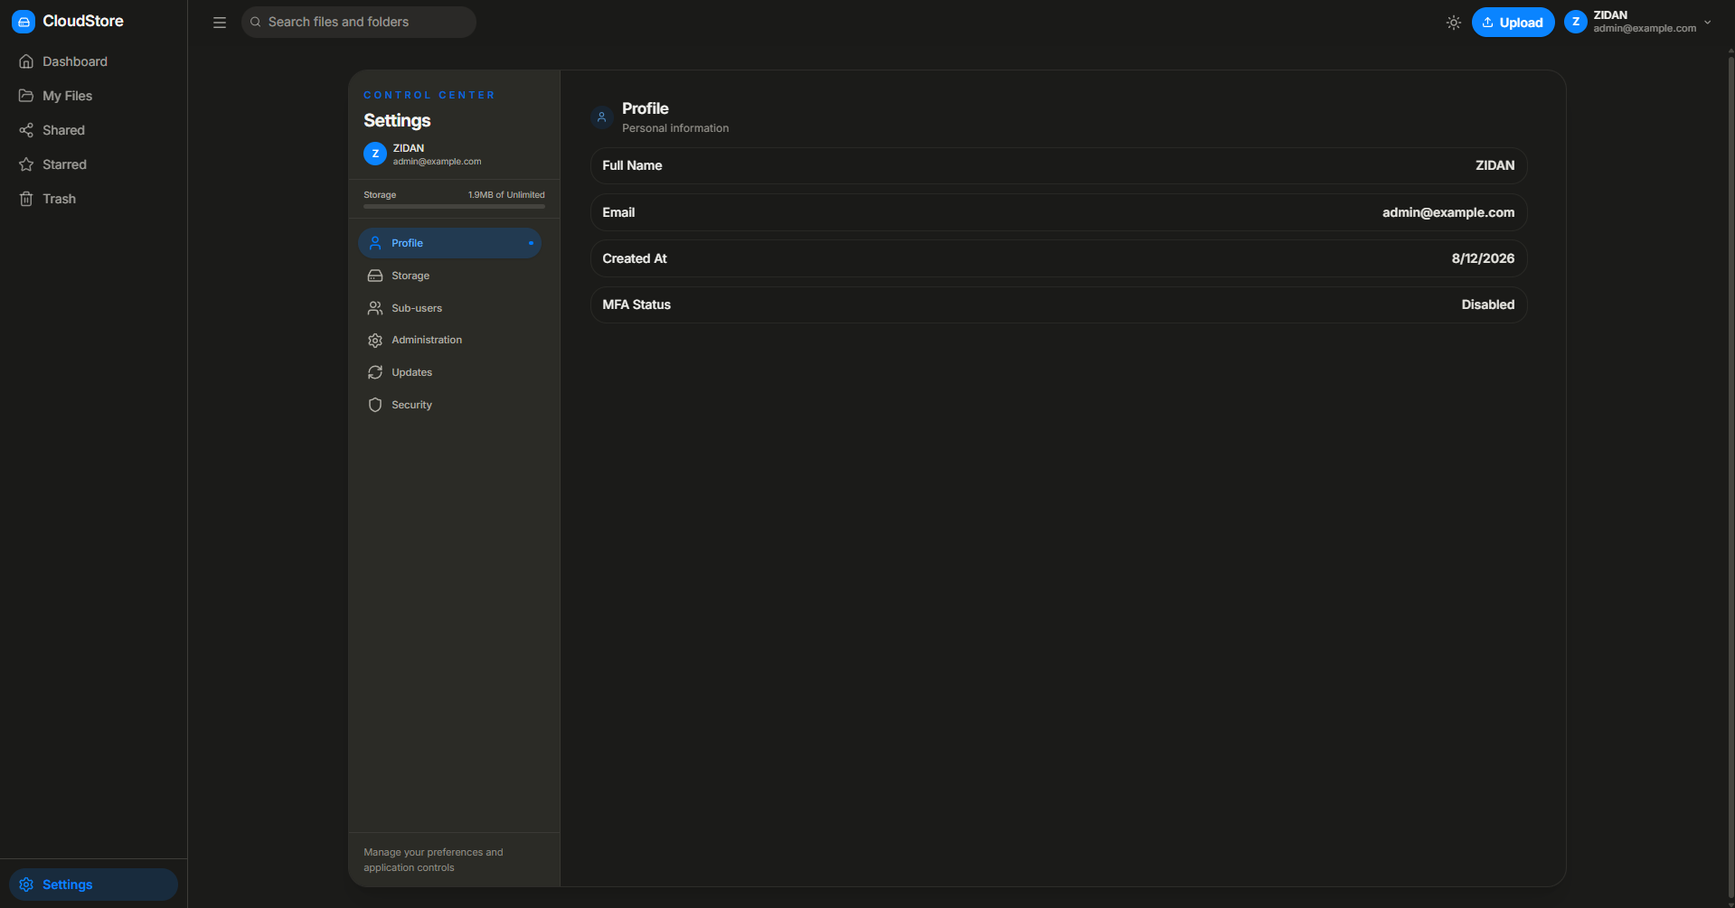
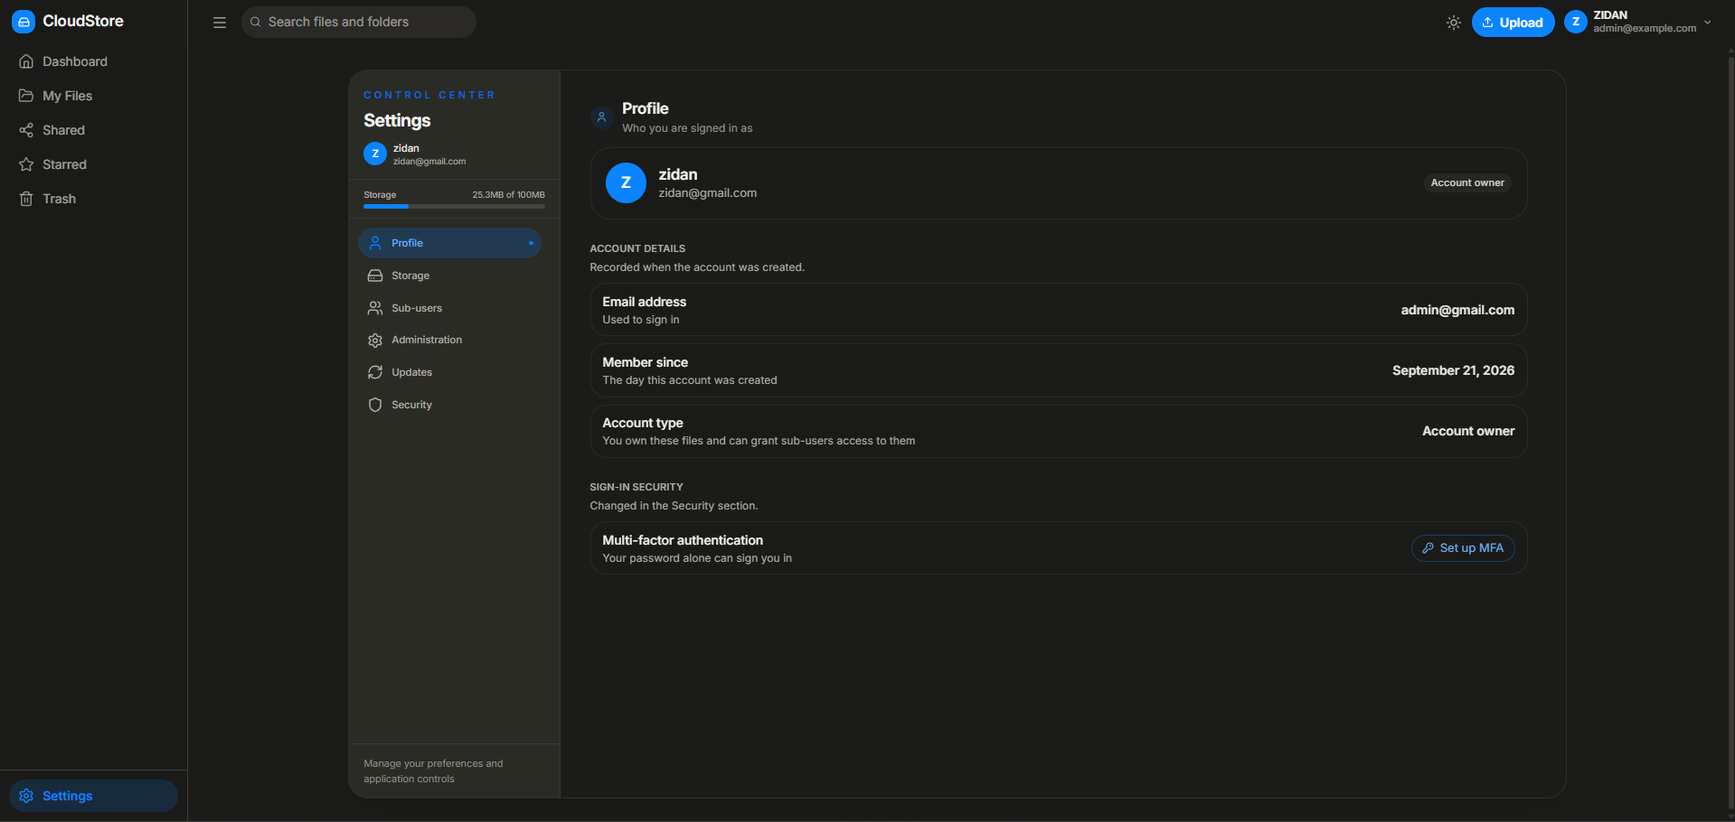
Align docs with recent backend and desktop changes
The worker now owns pg-boss supervision and cron, so the API only
produces jobs. Share auto-linking rides its own queue, folder totals
come only from the maintained aggregates with a weekly reconciliation,
and stale bulk-import manifests are cleaned up daily.

Clipboard pastes use the standard upload preflight and progress cards
instead of their own hardcoded size caps.

Adds the migrate:sizes script, notes that the streaming and envelope
migrations cover trashed files, and refreshes the settings screenshots
for the regrouped sections.

diff --git a/content/docs/guides/operations/background-workers.md b/content/docs/guides/operations/background-workers.md
@@ -7,7 +7,9 @@ Background services and workers in TMA Cloud.
 
 ## Overview
 
-TMA Cloud uses one standalone worker process for audit writes, file operations, object cleanup, scheduled maintenance, admin-requested orphan work, and OnlyOffice force-save commands. Jobs are stored in PostgreSQL by pg-boss, so schedules and retries survive process restarts.
+TMA Cloud uses one standalone worker process for audit writes, file operations, object cleanup, scheduled maintenance, admin-requested orphan work, share auto-linking, and OnlyOffice force-save commands. Jobs are stored in PostgreSQL by pg-boss, so schedules and retries survive process restarts.
+
+The worker is also the only supervising pg-boss instance: it owns job maintenance (retention, expiry, monitoring) and cron evaluation. The application process creates the queues it sends to and applies schema migrations so it can boot against a fresh database, but it only produces jobs.
 
 ## Background Worker
 
@@ -35,8 +37,9 @@ The worker must run in production. Without it, queued audit events, file operati
 | `account-file-operations` | Copies files, handles large moves and restores, and performs permanent deletion          |
 | `object-cleanup`          | Deletes unreferenced or superseded object versions after upload, replace, or save errors |
 | `file-operations`         | Drains jobs queued before the account queue was added and continues sliced trash cleanup |
+| `share-linking`           | Adds newly created items to the shares their parent folder belongs to                    |
 
-Failed jobs retry with backoff. `account-file-operations` uses strict FIFO ordering per account, so two mutations for one account cannot overtake each other while other accounts can run concurrently. Copy jobs use their pg-boss job ID as an idempotency key. A committed retry returns the original copied IDs from `file_operation_results` instead of creating another copy.
+Failed jobs retry with backoff. `account-file-operations` and `share-linking` use strict FIFO ordering per account, so two mutations for one account cannot overtake each other while other accounts can run concurrently. Copy jobs use their pg-boss job ID as an idempotency key. A committed retry returns the original copied IDs from `file_operation_results` instead of creating another copy.
 
 HTTP handlers keep validation, authorization, small metadata-only changes, and response streaming in the web process. They queue retryable object-store work and operations that can outlive an HTTP request.
 
@@ -44,15 +47,19 @@ HTTP handlers keep validation, authorization, small metadata-only changes, and r
 
 Schedules use UTC.
 
-| Job                      | Schedule        | What it removes                                          |
-| ------------------------ | --------------- | -------------------------------------------------------- |
-| Trash cleanup            | Daily at 02:00  | Files trashed more than 15 days ago                      |
-| Audit log cleanup        | Daily at 02:15  | `audit_log` rows older than 30 days                      |
-| Session cleanup          | Daily at 02:45  | `sessions` rows older than 30 days                       |
-| Operation-result cleanup | Daily at 02:50  | `file_operation_results` rows older than 30 days         |
-| Share link cleanup       | Sunday at 03:00 | Share links whose `expires_at` has passed                |
-| Heartbeat cleanup        | Hourly          | `client_heartbeats` rows not seen in the last 10 minutes |
-| Quota reservations       | Hourly at :30   | Expired `storage_reservations` rows                      |
+| Job                      | Schedule        | What it does                                                     |
+| ------------------------ | --------------- | ---------------------------------------------------------------- |
+| Folder aggregate check   | Sunday at 01:15 | Recomputes stored folder totals and reports how many were wrong  |
+| Trash cleanup            | Daily at 02:00  | Removes files trashed more than 15 days ago                      |
+| Audit log cleanup        | Daily at 03:40  | Removes `audit_log` rows older than 30 days                      |
+| Session cleanup          | Daily at 04:20  | Removes `sessions` rows older than 30 days                       |
+| Operation-result cleanup | Daily at 04:50  | Removes `file_operation_results` rows older than 30 days         |
+| Import-manifest cleanup  | Daily at 05:25  | Removes `bulk_import_items` rows older than 7 days               |
+| Share link cleanup       | Sunday at 06:10 | Removes share links whose `expires_at` has passed                |
+| Heartbeat cleanup        | Hourly at :07   | Removes `client_heartbeats` rows not seen in the last 10 minutes |
+| Quota reservations       | Hourly at :37   | Removes expired `storage_reservations` rows                      |
+
+Start times are spread across the window rather than stacked on the same minutes. One worker runs these serially, so coinciding schedules only queue behind each other and put their database load on the same few minutes.
 
 Trash is read in batches of 500. Stored objects are deleted with the S3 multi-object API before their database rows are removed. One run is capped by batch count and runtime; if work remains, the worker queues another slice. If object deletion fails, the rows remain for retry.
 
@@ -66,7 +73,11 @@ Share cleanup updates file sharing state and invalidates related caches. Heartbe
 
 Quota reservation cleanup deletes at most 1,000 rows per database call and at most 100 batches per run. Reservations normally disappear in the operation's metadata transaction; expiry cleanup covers interrupted processes.
 
-Session and operation-result cleanup use bounded batches of 5,000 rows, with at most 20 batches per run.
+Session and operation-result cleanup use bounded batches of 5,000 rows, with at most 20 batches per run. Import-manifest cleanup uses the same bounds and only removes `bulk_import_items` rows older than seven days, so an import that is still running or still rollback-able is never touched.
+
+The folder aggregate check recomputes `aggregate_size`, `aggregate_file_count`, and `aggregate_folder_count` from the rows themselves, one account at a time, and logs how many folders held a wrong value. Incremental trigger maintenance can drift because a negative delta is clamped at zero rather than carried, so this run both repairs the columns and makes the drift visible. A repaired count above zero is worth investigating: it means some write path is not maintaining the totals. The run is capped at 20 minutes and continues from the start of the account list on the next schedule.
+
+Share-linking jobs are not scheduled. An upload or folder creation inside a shared folder queues one, and the worker adds the new subtree to every share the parent belongs to. The job is keyed per account, so a burst of uploads serializes instead of racing, and it is safe to retry. The request itself pays only one indexed lookup to see whether the parent is shared at all. If the queue is unavailable, the producer links inline rather than leaving the items off the link.
 
 Object cleanup accepts storage keys only. Deletion is idempotent, is sent in S3 batches of up to 1,000 keys, and retries independently of the request that created or replaced the object. If the queue is unavailable, the producer attempts the deletion inline.
 
@@ -111,8 +122,9 @@ docker compose up -d
 
 - Check `docker compose logs -f worker` or the worker process logs.
 - Monitor `audit_queue_depth` and `audit_queue_failed_depth`.
-- Check recent rows in the pg-boss job table for `background-maintenance`, `account-file-operations`, `object-cleanup`, `file-operations`, `orphan-maintenance`, and `onlyoffice-forcesave` failures.
+- Check recent rows in the pg-boss job table for `background-maintenance`, `account-file-operations`, `object-cleanup`, `file-operations`, `share-linking`, `orphan-maintenance`, and `onlyoffice-forcesave` failures.
 - Verify cleanup counts and OnlyOffice command errors in worker logs.
+- Watch for `Repaired drifted folder aggregates` warnings from the weekly folder aggregate check.
 
 ## Related Topics
 

diff --git a/content/docs/getting-started/desktop-app.md b/content/docs/getting-started/desktop-app.md
@@ -166,7 +166,18 @@ The Windows desktop app uses a single Copy / Cut / Paste model that bridges the 
 - **Cut:** Right-click → **Cut**. In-app only. Cut items show a Windows-Explorer-style faded look until paste completes.
 - **Paste:** Right-click in a folder → **Paste**. If you copied or cut something inside TMA Cloud, the cloud clipboard is used (server-side copy/move — no re-upload). Otherwise physical files on the Windows clipboard stream from disk through the Electron main process into the current folder; their contents are not converted to base64 or copied across renderer IPC. If you copy something in Explorer after a cloud Copy, Paste detects the change and uses the newer Windows-clipboard files instead.
 
-The OS clipboard side of Paste supports Explorer copy, Outlook attachments, Snipping Tool, the OLE file clipboard used by other apps, and clipboard text containing file paths (e.g. Copy as path, IDE "Copy path/reference"). Virtual OLE files have no disk path, so Electron extracts them in the main process and uploads them from bounded memory without writing a plaintext upload file to `%TEMP%` or sending file data through renderer IPC. Their limit is 50 MB per file and 100 MB total. The backend still performs the normal streaming encryption before object storage.
+The OS clipboard side of Paste supports Explorer copy, Outlook attachments, Snipping Tool, the OLE file clipboard used by other apps, and clipboard text containing file paths (e.g. Copy as path, IDE "Copy path/reference"). Virtual OLE files have no disk path, so Electron extracts them in the main process and uploads them from bounded memory without writing a plaintext upload file to `%TEMP%` or sending file data through renderer IPC. Because that content is held whole in memory, one paste of virtual files is capped at 500 MB in total. The backend still performs the normal streaming encryption before object storage.
+
+Pasted files use the same size and quota checks as a normal upload — the max upload size setting and the account's remaining space — rather than separate clipboard limits. A file the server would refuse is reported in the upload-issues dialog and the rest of the paste continues.
+
+### Paste Progress
+
+Clipboard uploads run in the Electron main process and appear in the same floating upload panel as a browser upload.
+
+- One progress card per file, with the file name and size.
+- **Cancel** on a card stops that upload: the read stream and the network request both end.
+- A completed card clears after a few seconds; a failed one shows its error and stays longer.
+- Bodies stream from disk (or from main-process memory for virtual files) instead of being buffered, so the percentage reflects bytes actually sent.
 
 ### Keyboard Shortcuts
 

diff --git a/content/docs/reference/cli-commands.md b/content/docs/reference/cli-commands.md
@@ -197,12 +197,14 @@ Stored files use Google Tink's AES-GCM-HKDF-STREAMING format (`AES256_GCM_HKDF_1
 - Run it with the app **stopped**, before deploying the upgrade
 - Uses the same `FILE_ENCRYPTION_KEY` but it re-wraps the bytes, not the key
 - Uses the configured S3-compatible bucket
+- Covers trashed files as well, since they still own objects and can be restored
+- Resolves each row's actual key material first, so files already converted to a per-file DEK are not mistaken for legacy ciphertext
 - Safe to re-run: objects already in the streaming format are detected and skipped
 
 From the **backend** directory:
 
 ```bash
-node scripts/migrate-to-streaming-encryption.js
+npm run migrate:streaming
 ```
 
 ### Rotate FILE_ENCRYPTION_KEY (KEK)
@@ -232,12 +234,29 @@ Notes:
 Run once on a deployment created before envelope encryption, to give existing files their own DEK. Reads each object, re-encrypts it under a fresh DEK, and records the wrapped DEK on the row.
 
 - Run with the app **stopped**, after applying migrations and taking a backup
+- Covers trashed files as well, so the upgrade leaves nothing on the legacy master-key path
 - Re-encrypts to a new storage key, flips the database row, then deletes the old object — safe to interrupt and re-run
 - Failures are written to an `envelope-backfill-failures-*.json` manifest
 - `--concurrency N` sets how many objects are re-encrypted at once (default 8). Each is a full download + re-encrypt + re-upload, so raise it for many small files on a fast link (16–32)
 
 ```bash
 npm run backfill:envelope
+```
+
+### Reconcile encrypted file sizes (one-time)
+
+Encrypted downloads derive their `Content-Length` from `files.size`, which must hold the exact plaintext byte length. Run this once when upgrading an installation whose rows predate that requirement. It reads each object's real length from storage, checks the streaming-format header, derives the plaintext length, and repairs rows that disagree. Object bytes are not rewritten.
+
+- Run with the app and worker **stopped**, or in maintenance mode
+- Dry run by default — nothing is written without `--apply`
+- Resumable and safe to re-run
+- A row reported as legacy format needs `npm run migrate:streaming` first; run this again afterwards
+- `--concurrency N` sets how many object-store HEAD requests run at once (default 16)
+
+```bash
+npm run migrate:sizes                      # dry run
+npm run migrate:sizes -- --apply           # prompt, then update
+npm run migrate:sizes -- --apply --yes     # non-interactive
 ```
 
 ## Docker Commands

diff --git a/content/docs/reference/database-schema.md b/content/docs/reference/database-schema.md
@@ -94,6 +94,8 @@ Files and folders.
 
 **Triggers:** `files_storage_insert`, `files_storage_update`, and `files_storage_delete` update the account owner's `storage_used` counter once per statement from transition tables. `files_aggregate_insert`, `files_aggregate_update`, and `files_aggregate_delete` adjust ancestor folder totals when a row is inserted, moved, resized, changes type, or is removed.
 
+**Aggregate columns:** These three columns are the only source of a folder's size and counts; no read path recomputes them. Incremental trigger maintenance can drift, because a delta that would take a counter below zero is clamped rather than carried. `reconcile_folder_aggregates(user_id)` recomputes them for one account from its own rows and returns how many folders were stored wrong. The worker runs it weekly. Trashed descendants are counted, matching the triggers.
+
 Name search is backed by a trigram GIN index from `pg_trgm` on `lower(name)` and a `text_pattern_ops` btree on `lower(name)` for prefix matching — not a PostgreSQL full-text index.
 
 **File timestamps:** `modified` is the file's own timestamp — uploads and copies preserve the client's original mtime, so it can be years old on a row written seconds ago. `created_at` is when the row was written and is what orphan detection uses to tell an in-flight write from an orphan. `accessed_at` is when the item was last read. `shared_at` is set when an item joins a share and cleared when it is unshared. Re-sharing an active item does not change it. Renames and moves change neither `path` nor `created_at`, and they do not count as reads, so `accessed_at` is left alone as well. Reading an item never changes `modified`.
@@ -283,7 +285,7 @@ pg-boss job queue tables (managed automatically).
 
 ### `bulk_import_items`
 
-Durable rollback records used by the administrative bulk-import scripts. Each row records the import run, created file or folder ID, storage key when present, item type, and tree depth. A completed import removes its rows. A failed import consumes them in batches, deleting files before folders.
+Durable rollback records used by the administrative bulk-import scripts. Each row records the import run, created file or folder ID, storage key when present, item type, and tree depth. A completed import removes its rows. A failed import consumes them in batches, deleting files before folders. Only a killed process leaves rows behind; a daily worker job removes rows older than seven days.
 
 ### `migrations`
 

diff --git a/content/docs/guides/user/upload-files.md b/content/docs/guides/user/upload-files.md
@@ -37,7 +37,9 @@ Learn how to upload and manage files in TMA Cloud.
 - Single file uses standard upload; multiple files use bulk upload with progress
 - Same size and quota limits apply as for Upload
 - In the Windows desktop app, **Paste** is unified with the in-app clipboard: if you also did a Copy/Cut inside TMA Cloud, that takes priority. If you copy something new in Explorer afterwards, Paste detects the change and uploads the newer Explorer files instead
-- Physical clipboard files stream from their existing path. Pathless Outlook/Snipping Tool/OLE items upload from Electron's main-process memory with a 50 MB per-file and 100 MB total cap. Neither route creates a plaintext upload copy in the host temp directory
+- Physical clipboard files stream from their existing path. Pathless Outlook/Snipping Tool/OLE items upload from Electron's main-process memory, capped at 500 MB per paste because that content is held in memory. Neither route creates a plaintext upload copy in the host temp directory
+- Pasted files get the same progress cards as any other upload, one per file, each with its own **Cancel**. Canceling stops the transfer rather than only hiding the card
+- A file the server refuses is listed in the upload-issues dialog and the remaining files still upload
 
 ### Copy to Computer (Windows desktop app)
 

diff --git a/content/docs/concepts/storage-management.md b/content/docs/concepts/storage-management.md
@@ -103,9 +103,9 @@ Files are automatically encrypted. Encryption uses AES-256-GCM in Google Tink's 
 ### Cleanup
 
 - Trash cleanup frees space
-- Automatic background processes handle trash, expired share links, audit logs, old sessions, expired quota reservations, and expired file-operation results
+- Automatic background processes handle trash, expired share links, audit logs, old sessions, expired quota reservations, expired file-operation results, leftover bulk-import manifests, and a weekly recheck of stored folder totals
 - Failed uploads, replacements, and OnlyOffice saves queue unused storage objects for retryable deletion
-- Orphaned files are **not** removed automatically; an admin reviews and deletes them from **Settings** → **Administration** → **Review orphans**
+- Orphaned files are **not** removed automatically; an admin reviews and deletes them from **Settings** → **Administration** → **Maintenance** → **Review orphans**
 - **S3:** Upload validation (e.g. `parentId`) runs after stream upload. Failed bulk-upload and abandoned stream objects are queued for deletion. A process crash can still leave an orphan; review them periodically.
 
 ### Orphans

diff --git a/content/docs/concepts/file-system.md b/content/docs/concepts/file-system.md
@@ -54,7 +54,7 @@ File system architecture and organization in TMA Cloud.
 - Rename operations update database metadata without moving stored objects
 - Copy operations are queued on the background worker, use server-side object-store copy with four transfers at most, and read folder trees once before batched inserts
 - File lists use stable cursor batches and load continuously as the user scrolls. Only visible grid/list rows plus a small overscan are rendered
-- Folder sizes and descendant counts are maintained by database triggers. Size sorting uses those stored totals and the matching page-order index instead of walking a folder tree during a listing
+- Folder sizes and descendant counts are maintained by database triggers. Size sorting uses those stored totals and the matching page-order index instead of walking a folder tree during a listing. Nothing recomputes them on read; a weekly worker job recomputes them from the rows and reports any folder whose stored totals were wrong. See [Background Workers](/docs/guides/operations/background-workers#maintenance-schedule)
 - No file size limits imposed by memory constraints
 
 ### Path Management

diff --git a/content/docs/guides/admin/storage-limits.md b/content/docs/guides/admin/storage-limits.md
@@ -9,7 +9,7 @@ Configure storage limits for users in TMA Cloud (admin only).
 
 ### Default Behavior
 
-- **S3:** No disk; default is unlimited when no limit set. UI shows "X used of Unlimited" or "X used of Y" when limit set.
+- **S3:** No disk; default is unlimited when no limit set. **Settings** → **Storage** → **Usage** shows the amount used, and adds a bar with the percentage and free space once a limit is set.
 - No hardcoded limits; configurable per user; set via **Settings** → **Administration** → **Registered Users**
 
 ### Per-User Limits
@@ -38,8 +38,8 @@ Configure storage limits for users in TMA Cloud (admin only).
 ### User-Level
 
 - View current usage per user (used, total, free)
-- **S3:** total/free from per-user limit or "Unlimited" when no limit; percentage shown only when limit set.
-- Visual indicators
+- **S3:** total and free come from the per-user limit. With no limit, the account's own Storage section states that no quota is set and draws no bar.
+- The bar turns amber at 80% of the quota and red at 95%
 
 ### System-Level
 

diff --git a/content/docs/concepts/architecture.md b/content/docs/concepts/architecture.md
@@ -267,7 +267,7 @@ See [Database Schema](/docs/reference/database-schema) for details.
 ## Logging & Audit
 
 - **Structured Logging:** Pino with automatic secret masking
-- **Background Work:** One pg-boss worker handles batched audit writes, account-ordered file operations, object cleanup, durable maintenance schedules, admin-requested orphan work, and OnlyOffice force-save commands
+- **Background Work:** One pg-boss worker handles batched audit writes, account-ordered file operations, object cleanup, durable maintenance schedules, admin-requested orphan work, share auto-linking, and OnlyOffice force-save commands. It is also the only supervising pg-boss instance, so job maintenance and cron evaluation stay off the API process
 - **Request Logging:** All requests logged with context
 
 See [Logging](/docs/guides/operations/logging) and [Audit Logs](/docs/guides/operations/audit-logs) for details.

diff --git a/content/docs/concepts/sharing-model.md b/content/docs/concepts/sharing-model.md
@@ -53,6 +53,13 @@ Link multiple files to a single share link.
 Items added to a shared folder after it is shared are linked into the same
 share automatically.
 
+The link is written by the `share-linking` background queue, not by the upload
+request. The request runs one indexed lookup to see whether the parent folder
+belongs to a share, and queues the job only if it does. Jobs are keyed per
+account, so uploads into the same share are applied in order. A new item can
+therefore take a moment to appear on the public link after the upload finishes.
+If the queue is unavailable, the link is written inline instead.
+
 ## Share Link URLs
 
 ### Default Format

diff --git a/content/docs/guides/admin/orphan-review.md b/content/docs/guides/admin/orphan-review.md
@@ -17,8 +17,8 @@ Nothing is deleted automatically. The scan is read-only and only the first user 
 ## Opening the Review Screen
 
 1. Navigate to **Settings** → **Administration**
-2. Find **Orphaned files**
-3. Click **Review orphans**
+2. Scroll to the **Maintenance** group at the bottom of the section
+3. Find **Orphaned files** and click **Review orphans**
 
 The scan is queued on the background worker when the modal opens and whenever you change the grace window or click **Rescan**. The screen waits for the job and shows the result when it finishes.
 

diff --git a/content/docs/api/files.md b/content/docs/api/files.md
@@ -547,6 +547,8 @@ Get existing share links for multiple files without creating new ones.
 
 Link files to their parent folder's share link. If the parent folder is shared, the files will be added to that share.
 
+This endpoint links synchronously and returns the resulting share URLs. Uploads and folder creations inside a shared folder are linked automatically as well, but on the `share-linking` background queue, so the link is written shortly after the response.
+
 **Request Body:**
 
 ```json
